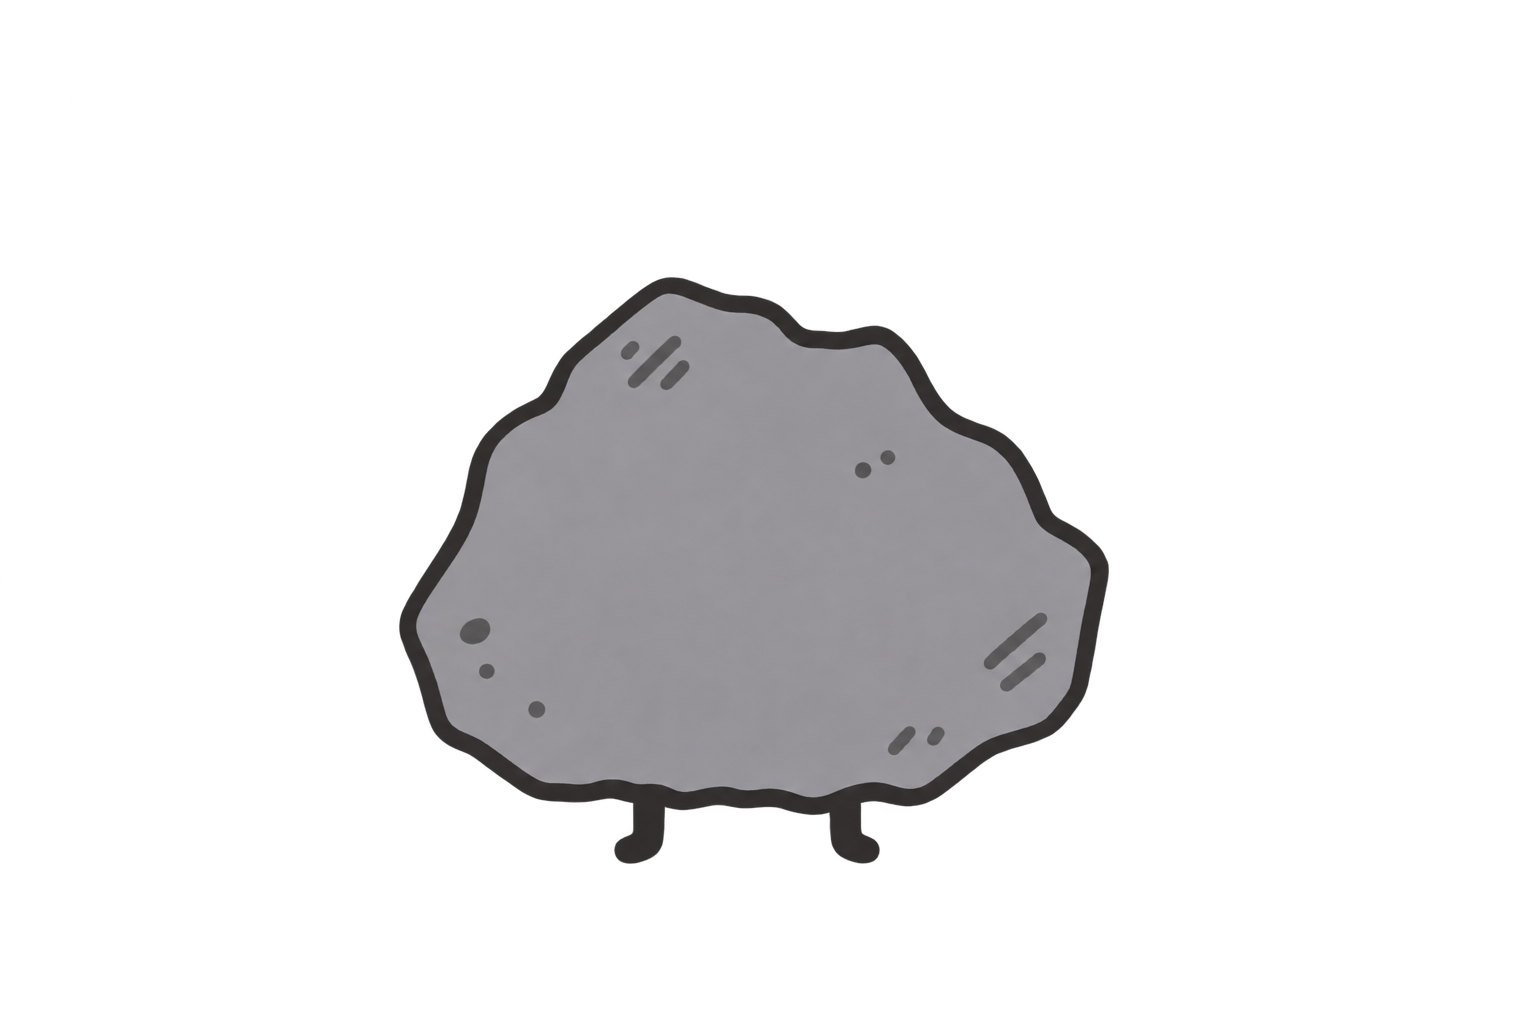
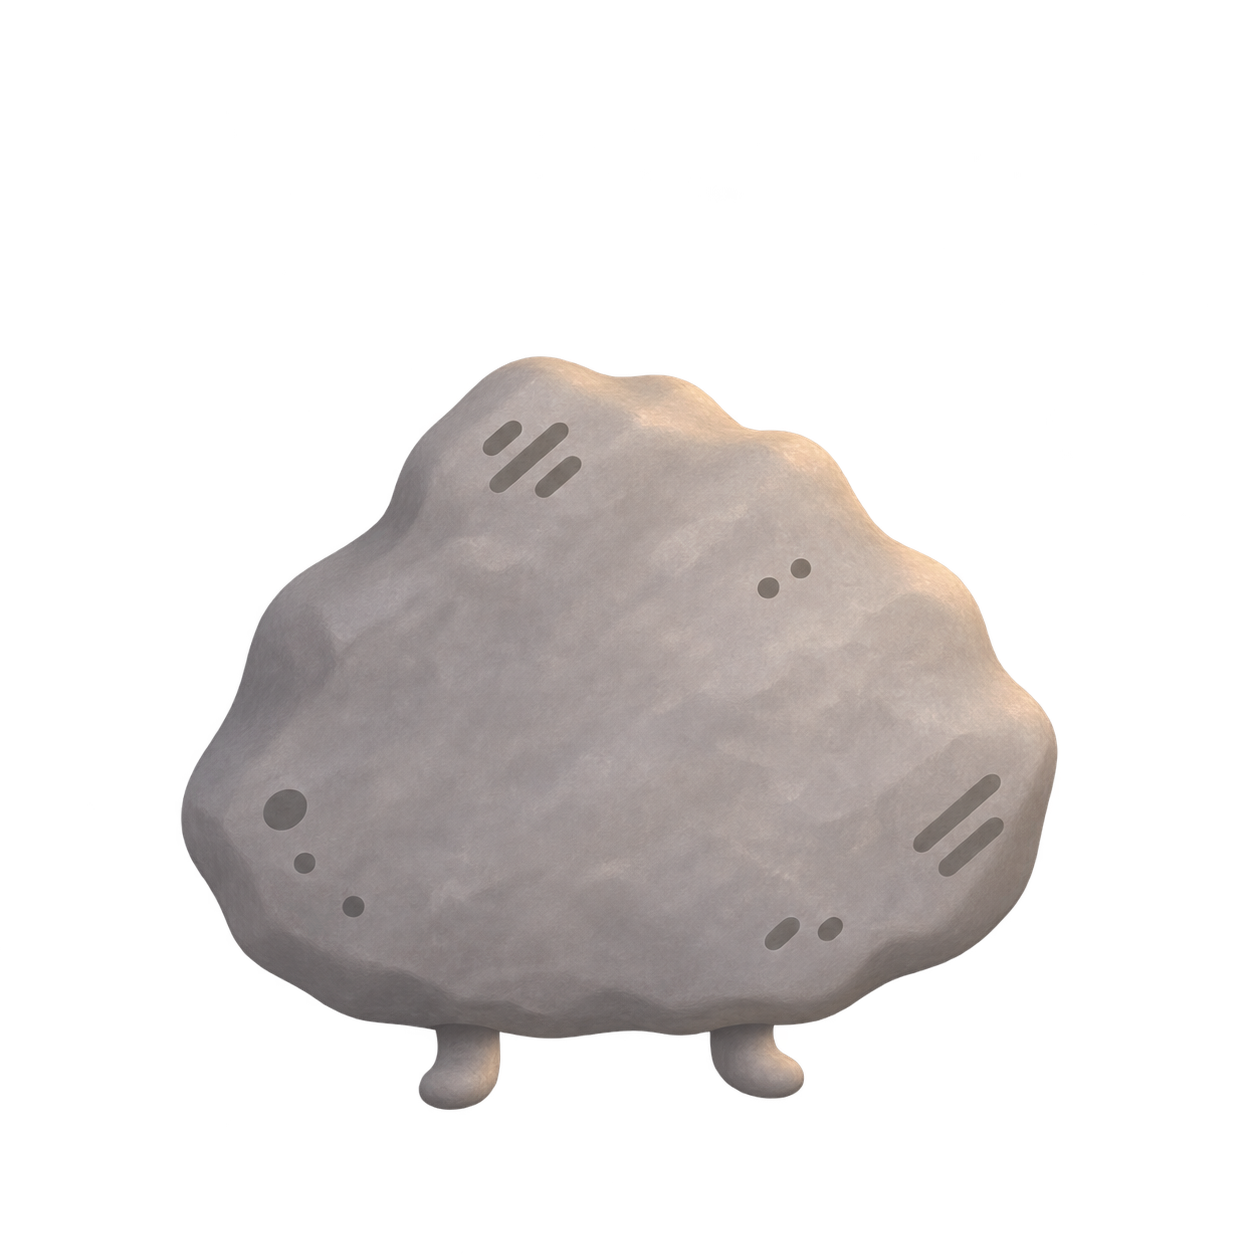
newPets_andAnimations

Changed region(s): [[0.1244, 0.25, 0.8397, 0.9062]]

diff --git a/frontend/src/pages/Home.css b/frontend/src/pages/Home.css
@@ -181,24 +181,63 @@
   display:block;
   width: 100%;
   height: auto;
+  position: relative;
+  top: 7px;
+  transform-origin: center 90%;
+  transform: scale(1.25);
+  animation: pet-idle 1.6s ease-in-out infinite;
 }
 
 .streak-display{
   position: absolute;
   top:0;
   right:0;
-  display: flex;
+  transform: translate(50%, -50%);
+  display: grid;
   align-items: center;
   gap: 4px;
-  font-size: 14px;
+  font-size: 10px;
   font-weight: 600;
   white-space: nowrap;
+  place-items: center;
 }
 
 .streak-display img{
-width:16px;
-height: 16px;
+  display: block;
+width:60%;
+height: 60%;
 object-fit: contain;
+grid-area: 1 / 1; 
+}
+
+.streak-filter_{
+position: absolute;}
+.streak-flame-base{
+  mask-image: linear-gradient(to bottom, tranpsarent 35%, black 58%); 
+}
+
+.streak-flame-tips{
+  filter: url("#flame-tip-ripple");
+  mask-image: linear-gradient(tobottom, black 35%, transparent 58%);
+}
+
+streak-display .streak-flame-tips{
+  display:none;
+}
+
+
+.streak-number{
+  position: absolute;
+  z-index: 1;
+  top: 65%;
+  left: 50%;
+  transform: translate(-50%, -50%);
+  color: #ffc400fd;
+  font-size:13px;
+  font-weight: 800;
+  line-height: 1;
+
+
 }
 /*helps the pet look like its actually inside*/
 .pet-bed-rim{
@@ -208,7 +247,8 @@ object-fit: contain;
   width: calc(100% - 40px);
   height: auto;
   pointer-events:none;
-  clip-path: polygon(0 50%, 15% 56%, 30% 61%, 50% 64%, 70% 61%, 85% 56%, 100% 50%, 100% 100%, 0 100%);
+  z-index: 2;
+  clip-path: polygon(0 48%, 10% 36%, 18% 34%, 26% 48%, 37% 53%, 44% 54%, 56% 54%, 66% 55%, 75% 48%, 82% 34%, 90% 36%, 100% 48%, 100% 100%, 0 100%);
 }
 
 
@@ -231,9 +271,24 @@ object-fit: contain;
   }
 }
 
+@keyframes pet-idle {
+  0%, 100%{
+    scale: 1 1;
+  }
+
+  50%{
+    scale:1.015 0.96;
+  }
+  
+}
 /*skips the flash for people who need it off*/
 @media (prefers-reduced-motion: reduce){
   .welcome-flash{
     display: none; 
   }
+
+
+.pet-on-bed{
+  animation: none;
+}
 }

diff --git a/frontend/src/pages/Home.jsx b/frontend/src/pages/Home.jsx
@@ -393,15 +393,19 @@ function Home() {
         <img src={petBed} alt='Pet bed' className='pet-bed' />
         <div className="pet-with-streak">
          <img 
-        src={currentPet?.imageUrl || "/images/pets/Nitro.png"}
+        src={currentPet?.imageUrl || "/images/pets/pegasus.png"}
       alt = {currentPet?.name ? currentPet.name || "Selected pet" : "Starter pet rock"}
     className="pet-on-bed"/>
-    <div className = "streak-display">
+    <div className = "streak-display"
+      role="img"
+      aria-label={`${streak} ${streak === 1 ? 'day': 'days'} streak`}>
+
+        
       <img src={streakFire} alt='' />
-      <span>{streak} {streak ===1 ? 'day' : 'days'}</span>
+      <span className="streak-number" aria-hidden="true">{streak}</span>
     </div>
     </div>
-    <img src={petBed} alt ="" className="pet-bed-rim"/>
+    <img src={petBed} alt="" className="pet-bed-rim"/>
       </div>
     </div>
   )

diff --git a/frontend/src/pages/PetCollection.jsx b/frontend/src/pages/PetCollection.jsx
@@ -1,4 +1,5 @@
 import './PetCollection.css'
+
 import Sidebar from '../components/Sidebar'
 
 function PetCollection() {
